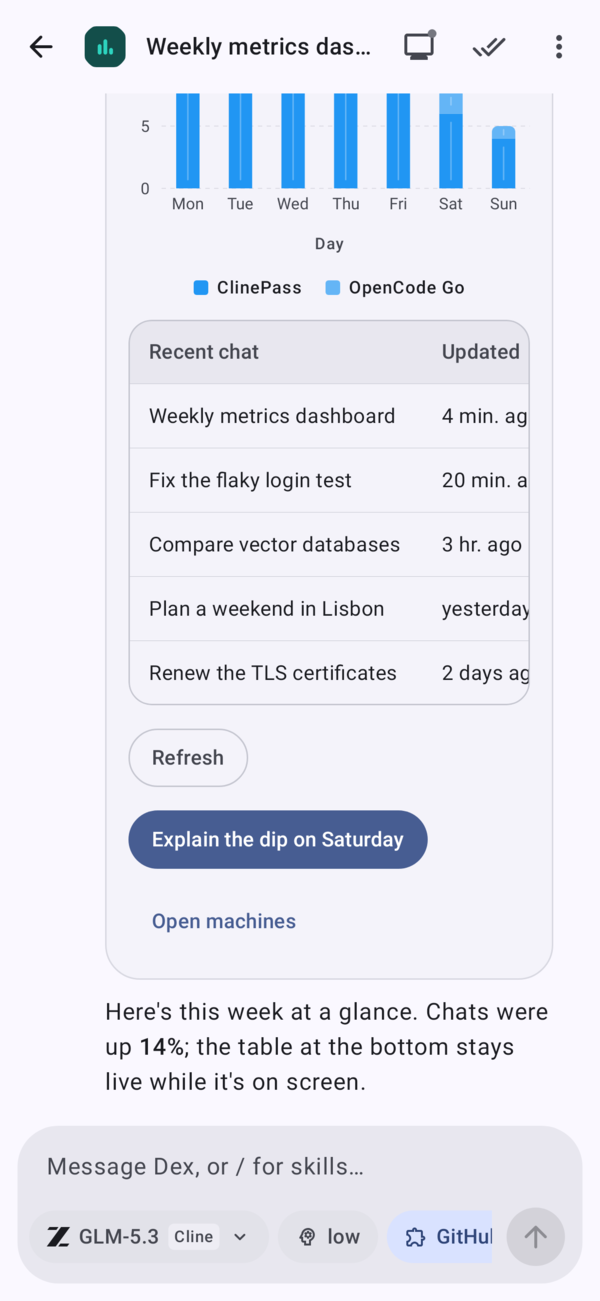
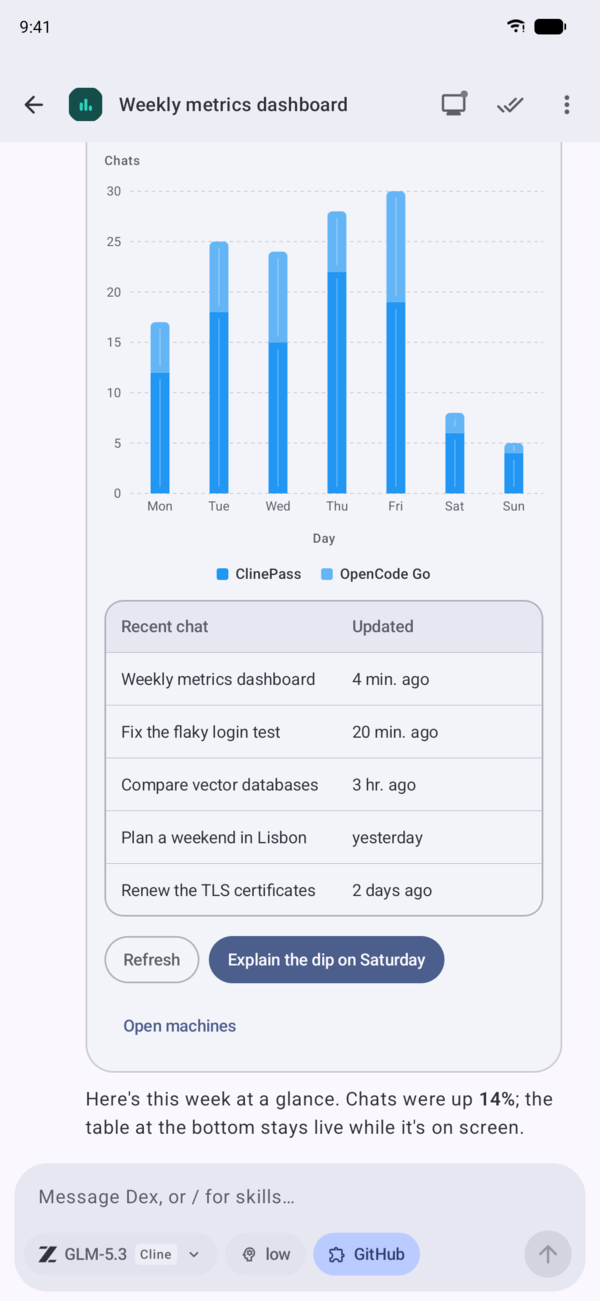
Retake the Android screenshot, and add it in dark mode
The README shows the light or dark shot to match the reader's theme, the dark landing page uses the dark one, and the
screenshot tests now render every screen in light and dark at each form factor.

diff --git a/apps/android/app/src/test/kotlin/dev/trydex/android/ui/ScreenshotTest.kt b/apps/android/app/src/test/kotlin/dev/trydex/android/ui/ScreenshotTest.kt
@@ -37,8 +37,9 @@ import org.robolectric.annotation.GraphicsMode
 import org.robolectric.shadows.ShadowLooper
 
 /**
- * Screens at each form factor, for checking styling and adaptive layouts: a phone, a flip phone's cover screen, a
- * book foldable open, a tablet in landscape, and a desktop window. Record with `./gradlew :app:recordRoborazziDebug`.
+ * Screens at each form factor, in light and dark, for checking styling and adaptive layouts: a phone, a flip phone's
+ * cover screen, a book foldable open, a tablet in landscape, and a desktop window. Record with
+ * `./gradlew :app:recordRoborazziDebug`.
  */
 @RunWith(ParameterizedRobolectricTestRunner::class)
 @GraphicsMode(GraphicsMode.Mode.NATIVE)
@@ -47,12 +48,14 @@ class ScreenshotTest(private val device: String, private val qualifiers: String)
         @JvmStatic
         @ParameterizedRobolectricTestRunner.Parameters(name = "{0}")
         fun devices() = listOf(
-            arrayOf("phone", "w411dp-h891dp-port-xxhdpi"),
-            arrayOf("flip-cover", "w340dp-h380dp-port-xhdpi"),
-            arrayOf("fold-open", "w674dp-h841dp-port-xhdpi"),
-            arrayOf("tablet", "w1280dp-h800dp-land-xhdpi"),
-            arrayOf("desktop", "w1600dp-h1000dp-land-mdpi"),
-        )
+            Triple("phone", "w411dp-h891dp-port", "xxhdpi"),
+            Triple("flip-cover", "w340dp-h380dp-port", "xhdpi"),
+            Triple("fold-open", "w674dp-h841dp-port", "xhdpi"),
+            Triple("tablet", "w1280dp-h800dp-land", "xhdpi"),
+            Triple("desktop", "w1600dp-h1000dp-land", "mdpi"),
+        ).flatMap { (name, screen, density) ->
+            listOf(arrayOf(name, "$screen-notnight-$density"), arrayOf("$name-dark", "$screen-night-$density"))
+        }
     }
 
     @get:Rule val rule = createComposeRule()

diff --git a/README.md b/README.md
@@ -163,7 +163,7 @@
 <table>
   <tr>
     <td width="50%"><picture><source media="(prefers-color-scheme: dark)" srcset="docs/screenshots/ios-chat-dark.png"><img src="docs/screenshots/ios-chat.png" alt="The Dex iPhone app: a chat with a table, a code block, and a confirmation card"></picture><br><b>iPhone and iPad.</b> Swift and SwiftUI with Liquid Glass.</td>
-    <td width="50%"><img src="docs/screenshots/android-chat.png" alt="The Dex Android app: a chat with a live chart and table card"><br><b>Android.</b> Kotlin, Jetpack Compose, and Material 3 Expressive.</td>
+    <td width="50%"><picture><source media="(prefers-color-scheme: dark)" srcset="docs/screenshots/android-chat-dark.png"><img src="docs/screenshots/android-chat.png" alt="The Dex Android app: a chat with a live chart and table card"></picture><br><b>Android.</b> Kotlin, Jetpack Compose, and Material 3 Expressive.</td>
   </tr>
 </table>
 

diff --git a/apps/android/README.md b/apps/android/README.md
@@ -43,7 +43,7 @@ Goldens come from the web's TypeScript run by Node: `TZ=America/Chicago node app
 
 ```sh
 ./gradlew test                         # unit and Robolectric UI tests (all modules)
-./gradlew :app:recordRoborazziDebug    # screenshots of every screen at five sizes into app/src/test/screenshots
+./gradlew :app:recordRoborazziDebug    # every screen at five sizes, light and dark, into app/src/test/screenshots
 ./gradlew :app:connectedDebugAndroidTest   # on a running emulator or device
 ```
 
